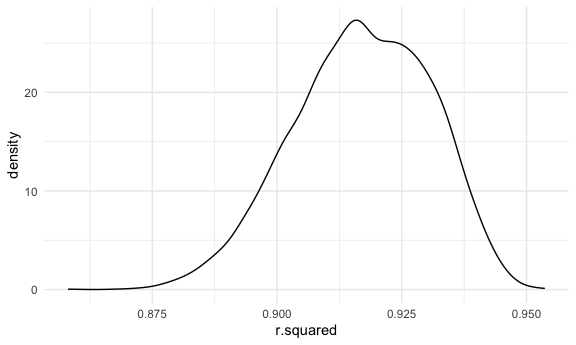
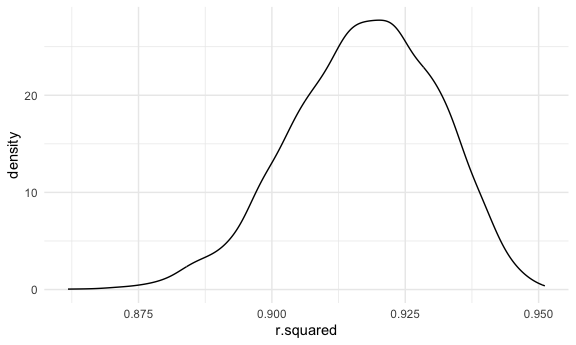
Problem 3; added my model, compared to models from the homework assignment, and all plots. Still need writeup.

diff --git a/p8105_hw6_cjd2195.md b/p8105_hw6_cjd2195.md
@@ -265,33 +265,33 @@ boot_straps |>
   knitr::kable()
 ```
 
-| name           | id          | date       | prcp | tmax |  tmin |
-|:---------------|:------------|:-----------|-----:|-----:|------:|
-| CentralPark_NY | USW00094728 | 2022-01-01 |  201 | 13.3 |  10.0 |
-| CentralPark_NY | USW00094728 | 2022-01-01 |  201 | 13.3 |  10.0 |
-| CentralPark_NY | USW00094728 | 2022-01-01 |  201 | 13.3 |  10.0 |
-| CentralPark_NY | USW00094728 | 2022-01-04 |    0 |  1.1 |  -7.1 |
-| CentralPark_NY | USW00094728 | 2022-01-04 |    0 |  1.1 |  -7.1 |
-| CentralPark_NY | USW00094728 | 2022-01-05 |   58 |  8.3 |  -0.5 |
-| CentralPark_NY | USW00094728 | 2022-01-05 |   58 |  8.3 |  -0.5 |
-| CentralPark_NY | USW00094728 | 2022-01-06 |    0 |  5.0 |   1.1 |
-| CentralPark_NY | USW00094728 | 2022-01-07 |   97 |  1.1 |  -3.8 |
-| CentralPark_NY | USW00094728 | 2022-01-07 |   97 |  1.1 |  -3.8 |
-| CentralPark_NY | USW00094728 | 2022-01-08 |    0 | -1.0 |  -6.6 |
-| CentralPark_NY | USW00094728 | 2022-01-09 |   25 |  4.4 |  -1.6 |
-| CentralPark_NY | USW00094728 | 2022-01-10 |    0 |  4.4 |  -4.3 |
-| CentralPark_NY | USW00094728 | 2022-01-13 |    0 |  8.9 |   1.1 |
-| CentralPark_NY | USW00094728 | 2022-01-13 |    0 |  8.9 |   1.1 |
-| CentralPark_NY | USW00094728 | 2022-01-14 |    0 |  6.1 |  -6.0 |
-| CentralPark_NY | USW00094728 | 2022-01-15 |    0 | -6.0 | -12.1 |
-| CentralPark_NY | USW00094728 | 2022-01-18 |    0 |  2.2 |  -1.6 |
-| CentralPark_NY | USW00094728 | 2022-01-21 |    0 | -5.5 |  -9.9 |
-| CentralPark_NY | USW00094728 | 2022-01-22 |    0 | -1.6 | -10.5 |
-| CentralPark_NY | USW00094728 | 2022-01-23 |    5 |  2.8 |  -4.3 |
-| CentralPark_NY | USW00094728 | 2022-01-23 |    5 |  2.8 |  -4.3 |
-| CentralPark_NY | USW00094728 | 2022-01-24 |    0 |  2.2 |  -3.2 |
-| CentralPark_NY | USW00094728 | 2022-01-26 |    0 | -2.1 |  -6.6 |
-| CentralPark_NY | USW00094728 | 2022-01-28 |   33 |  0.0 |  -1.6 |
+| name           | id          | date       | prcp | tmax | tmin |
+|:---------------|:------------|:-----------|-----:|-----:|-----:|
+| CentralPark_NY | USW00094728 | 2022-01-01 |  201 | 13.3 | 10.0 |
+| CentralPark_NY | USW00094728 | 2022-01-02 |   10 | 15.0 |  2.8 |
+| CentralPark_NY | USW00094728 | 2022-01-03 |    0 |  2.8 | -5.5 |
+| CentralPark_NY | USW00094728 | 2022-01-04 |    0 |  1.1 | -7.1 |
+| CentralPark_NY | USW00094728 | 2022-01-04 |    0 |  1.1 | -7.1 |
+| CentralPark_NY | USW00094728 | 2022-01-06 |    0 |  5.0 |  1.1 |
+| CentralPark_NY | USW00094728 | 2022-01-07 |   97 |  1.1 | -3.8 |
+| CentralPark_NY | USW00094728 | 2022-01-08 |    0 | -1.0 | -6.6 |
+| CentralPark_NY | USW00094728 | 2022-01-08 |    0 | -1.0 | -6.6 |
+| CentralPark_NY | USW00094728 | 2022-01-09 |   25 |  4.4 | -1.6 |
+| CentralPark_NY | USW00094728 | 2022-01-09 |   25 |  4.4 | -1.6 |
+| CentralPark_NY | USW00094728 | 2022-01-09 |   25 |  4.4 | -1.6 |
+| CentralPark_NY | USW00094728 | 2022-01-10 |    0 |  4.4 | -4.3 |
+| CentralPark_NY | USW00094728 | 2022-01-11 |    0 | -4.3 | -9.3 |
+| CentralPark_NY | USW00094728 | 2022-01-12 |    0 |  4.4 | -6.6 |
+| CentralPark_NY | USW00094728 | 2022-01-13 |    0 |  8.9 |  1.1 |
+| CentralPark_NY | USW00094728 | 2022-01-14 |    0 |  6.1 | -6.0 |
+| CentralPark_NY | USW00094728 | 2022-01-14 |    0 |  6.1 | -6.0 |
+| CentralPark_NY | USW00094728 | 2022-01-19 |    0 |  9.4 | -2.1 |
+| CentralPark_NY | USW00094728 | 2022-01-21 |    0 | -5.5 | -9.9 |
+| CentralPark_NY | USW00094728 | 2022-01-23 |    5 |  2.8 | -4.3 |
+| CentralPark_NY | USW00094728 | 2022-01-24 |    0 |  2.2 | -3.2 |
+| CentralPark_NY | USW00094728 | 2022-01-24 |    0 |  2.2 | -3.2 |
+| CentralPark_NY | USW00094728 | 2022-01-25 |    0 |  5.6 | -2.1 |
+| CentralPark_NY | USW00094728 | 2022-01-25 |    0 |  5.6 | -2.1 |
 
 Cool, for the first bootstrapped sample, even just in the first few
 lines, we can see that there are many dates which were pulled more than
@@ -333,16 +333,16 @@ compact_boot_results
     ## # A tibble: 5,000 × 7
     ##    strap_number models r.squared beta_0 beta_1    beta_2 log_b1_b2
     ##           <int> <list>     <dbl>  <dbl>  <dbl>     <dbl>     <dbl>
-    ##  1            1 <lm>       0.926   7.97  1.03  -0.00631     NaN   
-    ##  2            2 <lm>       0.916   8.02  1.01  -0.00135     NaN   
-    ##  3            3 <lm>       0.908   8.27  0.982  0.00655      -5.05
-    ##  4            4 <lm>       0.904   8.54  1.00  -0.000261    NaN   
-    ##  5            5 <lm>       0.906   8.16  0.996  0.000356     -7.94
-    ##  6            6 <lm>       0.902   8.21  0.988  0.00402      -5.53
-    ##  7            7 <lm>       0.914   8.29  1.00  -0.000765    NaN   
-    ##  8            8 <lm>       0.931   7.70  1.05  -0.00811     NaN   
-    ##  9            9 <lm>       0.933   8.03  1.03  -0.00595     NaN   
-    ## 10           10 <lm>       0.922   7.72  1.05  -0.00279     NaN   
+    ##  1            1 <lm>       0.921   7.95  1.01  -0.00274     NaN   
+    ##  2            2 <lm>       0.932   8.14  1.02  -0.00593     NaN   
+    ##  3            3 <lm>       0.908   8.13  1.02  -0.00183     NaN   
+    ##  4            4 <lm>       0.932   7.94  1.03  -0.00698     NaN   
+    ##  5            5 <lm>       0.924   8.40  1.02  -0.00940     NaN   
+    ##  6            6 <lm>       0.909   8.00  1.01  -0.000542    NaN   
+    ##  7            7 <lm>       0.942   7.23  1.06  -0.00570     NaN   
+    ##  8            8 <lm>       0.919   7.97  1.01  -0.000981    NaN   
+    ##  9            9 <lm>       0.897   7.81  1.01   0.00367      -5.60
+    ## 10           10 <lm>       0.903   8.19  0.983  0.00716      -4.96
     ## # ℹ 4,990 more rows
 
 Hooray! Let’s plot them. It’s important to note that, because many of
@@ -387,14 +387,190 @@ compact_boot_results |>
 
 | rsq_ci_lower | rsq_ci_upper | log_beta_ci_lower | log_beta_ci_upper |
 |-------------:|-------------:|------------------:|------------------:|
-|        0.889 |        0.941 |            -9.203 |            -4.585 |
+|        0.888 |        0.941 |             -9.06 |            -4.579 |
 
-The estimate of $\hat{r^2}$ is 0.9169699, 95% CI \[0.8889037,
-0.9405075\]. The estimate of $log(\hat{\beta_1} * \hat{\beta_2})$ is
--6.0741718, 95% CI \[-9.2033785, -4.5848345\]. As above, it’s important
+The estimate of $\hat{r^2}$ is 0.9173147, 95% CI \[0.8883054,
+0.9409796\]. The estimate of $log(\hat{\beta_1} * \hat{\beta_2})$ is
+-6.0723757, 95% CI \[-9.0601436, -4.578678\]. As above, it’s important
 to note that because the value of $log(\hat{\beta_1} * \hat{\beta_2})$
 is the result of trying to take the logarithm of a negative number,
 these are `NaN` and are not included when calculating the estimate and
 confidence interval.
 
 ## Problem 3
+
+Let’s read in some new data!
+
+``` r
+birthweight_df = 
+  read_csv("data/birthweight.csv") |> 
+  mutate(
+    babysex = case_match(
+    babysex,
+    1 ~ "male",
+    2 ~ "female"
+  ),
+  babysex = as.factor(babysex),
+  frace = case_match(
+    frace,
+    1 ~ "white",
+    2 ~ "black",
+    3 ~ "asian",
+    4 ~ "puerto rican",
+    8 ~ "other",
+    9 ~ "unknown"
+  ),
+  frace = as.factor(frace),
+  malform = case_match(
+    malform, 
+    0 ~ "absent",
+    1 ~ "present"
+  ),
+  malform = as.factor(malform),
+  mrace = case_match(
+    mrace,
+    1 ~ "white",
+    2 ~ "black",
+    3 ~ "asian",
+    4 ~ "puerto rican",
+    8 ~ "other",
+  ),
+  mrace = as.factor(mrace))
+```
+
+    ## Rows: 4342 Columns: 20
+    ## ── Column specification ────────────────────────────────────────────────────────
+    ## Delimiter: ","
+    ## dbl (20): babysex, bhead, blength, bwt, delwt, fincome, frace, gaweeks, malf...
+    ## 
+    ## ℹ Use `spec()` to retrieve the full column specification for this data.
+    ## ℹ Specify the column types or set `show_col_types = FALSE` to quiet this message.
+
+``` r
+birthweight_df |> 
+  summarise(across(everything(), ~ sum(is.na(.x))))
+```
+
+    ## # A tibble: 1 × 20
+    ##   babysex bhead blength   bwt delwt fincome frace gaweeks malform menarche
+    ##     <int> <int>   <int> <int> <int>   <int> <int>   <int>   <int>    <int>
+    ## 1       0     0       0     0     0       0     0       0       0        0
+    ## # ℹ 10 more variables: mheight <int>, momage <int>, mrace <int>, parity <int>,
+    ## #   pnumlbw <int>, pnumsga <int>, ppbmi <int>, ppwt <int>, smoken <int>,
+    ## #   wtgain <int>
+
+``` r
+birthweight_df |> 
+  summarize(sga = n_distinct(pnumsga),
+            lbw = n_distinct(pnumlbw))
+```
+
+    ## # A tibble: 1 × 2
+    ##     sga   lbw
+    ##   <int> <int>
+    ## 1     1     1
+
+``` r
+bw_fit = lm(bwt ~ babysex + bhead + blength + delwt + gaweeks + mheight + parity + smoken + wtgain, data = birthweight_df)
+
+bw_fit |> 
+  broom::tidy() |> 
+  mutate(sig = case_when(p.value <= 0.05 ~ TRUE))
+```
+
+    ## # A tibble: 10 × 6
+    ##    term        estimate std.error statistic   p.value sig  
+    ##    <chr>          <dbl>     <dbl>     <dbl>     <dbl> <lgl>
+    ##  1 (Intercept) -6688.     134.       -49.9  0         TRUE 
+    ##  2 babysexmale   -29.4      8.68      -3.38 7.26e-  4 TRUE 
+    ##  3 bhead         136.       3.51      38.8  2.23e-283 TRUE 
+    ##  4 blength        77.5      2.07      37.5  1.05e-266 TRUE 
+    ##  5 delwt           1.12     0.237      4.73 2.27e-  6 TRUE 
+    ##  6 gaweeks        13.9      1.50       9.29 2.31e- 20 TRUE 
+    ##  7 mheight         9.60     1.79       5.37 8.32e-  8 TRUE 
+    ##  8 parity         99.1     41.5        2.39 1.69e-  2 TRUE 
+    ##  9 smoken         -2.38     0.579     -4.10 4.20e-  5 TRUE 
+    ## 10 wtgain          2.58     0.439      5.88 4.45e-  9 TRUE
+
+``` r
+bw_df_test =
+  birthweight_df |> 
+  add_predictions(bw_fit) |> 
+  add_residuals(bw_fit)
+
+bw_df_test |> 
+  ggplot(aes(x = pred, y = resid)) + 
+  geom_point(alpha = 0.3)
+```
+
+<img src="p8105_hw6_cjd2195_files/figure-gfm/unnamed-chunk-14-1.png" width="90%" />
+
+``` r
+bw_df_test |> 
+  ggplot(aes(sample = resid)) +
+  stat_qq() + 
+  stat_qq_line()
+```
+
+<img src="p8105_hw6_cjd2195_files/figure-gfm/unnamed-chunk-14-2.png" width="90%" />
+
+``` r
+bw_fit_ex1 = lm(bwt ~ blength + gaweeks, data = birthweight_df)
+bw_fit_ex2 = lm(bwt ~ babysex + bhead + blength + babysex*bhead + babysex*blength + bhead*blength + babysex*bhead*blength, data = birthweight_df)
+
+bw_fit_ex1 |> 
+  broom::tidy()
+```
+
+    ## # A tibble: 3 × 5
+    ##   term        estimate std.error statistic  p.value
+    ##   <chr>          <dbl>     <dbl>     <dbl>    <dbl>
+    ## 1 (Intercept)  -4348.      98.0      -44.4 0       
+    ## 2 blength        129.       1.99      64.6 0       
+    ## 3 gaweeks         27.0      1.72      15.7 2.36e-54
+
+``` r
+bw_fit_ex2 |> 
+  broom::tidy()
+```
+
+    ## # A tibble: 8 × 5
+    ##   term                      estimate std.error statistic    p.value
+    ##   <chr>                        <dbl>     <dbl>     <dbl>      <dbl>
+    ## 1 (Intercept)                -802.    1102.       -0.728 0.467     
+    ## 2 babysexmale               -6375.    1678.       -3.80  0.000147  
+    ## 3 bhead                       -16.6     34.1      -0.487 0.626     
+    ## 4 blength                     -21.6     23.4      -0.926 0.354     
+    ## 5 babysexmale:bhead           198.      51.1       3.88  0.000105  
+    ## 6 babysexmale:blength         124.      35.1       3.52  0.000429  
+    ## 7 bhead:blength                 3.32     0.713     4.67  0.00000317
+    ## 8 babysexmale:bhead:blength    -3.88     1.06     -3.67  0.000245
+
+``` r
+bw_cv_df = 
+  modelr::crossv_mc(birthweight_df, 100) |> 
+  mutate(
+    train = map(train, as_tibble),
+    test = map(test, as_tibble))
+
+bw_cv_df |> 
+  mutate(
+    my_model = map(train, \(df) lm(bwt ~ babysex + bhead + blength + delwt + gaweeks + mheight + parity + smoken + wtgain, data = birthweight_df)), 
+    bw_fit_ex1 = map(train, \(df) lm(bwt ~ blength + gaweeks, data = birthweight_df)),
+    bw_fit_ex2 = map(train, \(df) lm(bwt ~ babysex + bhead + blength + babysex*bhead + babysex*blength + bhead*blength + babysex*bhead*blength, data = birthweight_df))) |> 
+  mutate(
+    rmse_my_model = map2_dbl(my_model, test, \(mod, df) rmse(model = mod, data = df)),
+    rmse_bw_fit_ex1 = map2_dbl(bw_fit_ex1, test, \(mod, df) rmse(model = mod, data = df)),
+    rmse_bw_fit_ex2 = map2_dbl(bw_fit_ex2, test, \(mod, df) rmse(model = mod, data = df))
+  ) |> 
+  select(starts_with("rmse")) |> 
+  pivot_longer(
+    everything(),
+    names_to = "model", 
+    values_to = "rmse",
+    names_prefix = "rmse_") |> 
+  mutate(model = fct_inorder(model)) |> 
+  ggplot(aes(x = model, y = rmse)) + geom_violin()
+```
+
+<img src="p8105_hw6_cjd2195_files/figure-gfm/unnamed-chunk-16-1.png" width="90%" />
